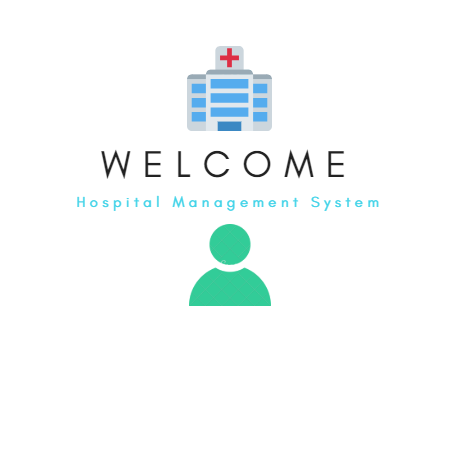
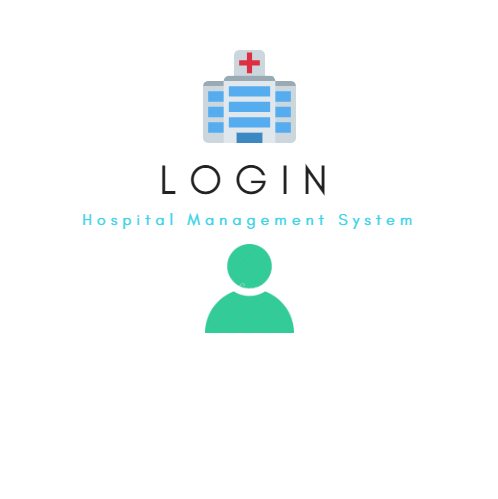
fixes

diff --git a/src/Registration.java b/src/Registration.java
@@ -175,13 +175,10 @@ private void Reset()
                 .addGroup(jPanel1Layout.createParallelGroup(javax.swing.GroupLayout.Alignment.BASELINE)
                     .addComponent(jLabel4)
                     .addComponent(txtAdd, javax.swing.GroupLayout.PREFERRED_SIZE, javax.swing.GroupLayout.DEFAULT_SIZE, javax.swing.GroupLayout.PREFERRED_SIZE))
-                .addGroup(jPanel1Layout.createParallelGroup(javax.swing.GroupLayout.Alignment.LEADING)
-                    .addGroup(jPanel1Layout.createSequentialGroup()
-                        .addGap(11, 11, 11)
-                        .addComponent(jLabel5))
-                    .addGroup(jPanel1Layout.createSequentialGroup()
-                        .addGap(18, 18, 18)
-                        .addComponent(txtContact, javax.swing.GroupLayout.PREFERRED_SIZE, javax.swing.GroupLayout.DEFAULT_SIZE, javax.swing.GroupLayout.PREFERRED_SIZE)))
+                .addGap(18, 18, 18)
+                .addGroup(jPanel1Layout.createParallelGroup(javax.swing.GroupLayout.Alignment.BASELINE)
+                    .addComponent(txtContact, javax.swing.GroupLayout.PREFERRED_SIZE, javax.swing.GroupLayout.DEFAULT_SIZE, javax.swing.GroupLayout.PREFERRED_SIZE)
+                    .addComponent(jLabel5))
                 .addGap(18, 18, 18)
                 .addGroup(jPanel1Layout.createParallelGroup(javax.swing.GroupLayout.Alignment.TRAILING)
                     .addComponent(jLabel6)

diff --git a/src/Loginframe.java b/src/Loginframe.java
@@ -89,13 +89,13 @@ Connection con=null;
 
         empty.setIcon(new javax.swing.ImageIcon(getClass().getResource("/login.png"))); // NOI18N
         jPanel1.add(empty);
-        empty.setBounds(0, 0, 460, 460);
+        empty.setBounds(-30, 0, 460, 460);
 
         javax.swing.GroupLayout layout = new javax.swing.GroupLayout(getContentPane());
         getContentPane().setLayout(layout);
         layout.setHorizontalGroup(
             layout.createParallelGroup(javax.swing.GroupLayout.Alignment.LEADING)
-            .addComponent(jPanel1, javax.swing.GroupLayout.DEFAULT_SIZE, 456, Short.MAX_VALUE)
+            .addComponent(jPanel1, javax.swing.GroupLayout.PREFERRED_SIZE, 430, javax.swing.GroupLayout.PREFERRED_SIZE)
         );
         layout.setVerticalGroup(
             layout.createParallelGroup(javax.swing.GroupLayout.Alignment.LEADING)
@@ -131,7 +131,8 @@ Connection con=null;
              frm.setVisible(true);
            }
            else{
-              JOptionPane.showMessageDialog(null, "Login Failed..Id & Password doesnot matched !");
+              //JOptionPane.showMessageDialog(null, "Login Failed..Id & Password doesnot matched !");
+              JOptionPane.showMessageDialog( this, "Id & Password didn't matched !","Login Failed", JOptionPane.ERROR_MESSAGE);
           }
         }catch(SQLException | HeadlessException e){
          JOptionPane.showMessageDialog(null, e); 

diff --git a/src/Bill_Room.java b/src/Bill_Room.java
@@ -635,7 +635,7 @@ public class Bill_Room extends javax.swing.JFrame {
             }
             if (!(PatientID.getText().equals(jTable1.getModel().getValueAt(row,0).toString()))) {
                 
-    JOptionPane.showMessageDialog( this, "Patient Data Not Matched","Error", JOptionPane.ERROR_MESSAGE);
+    JOptionPane.showMessageDialog( this, "Patient IDs Not Matched","Error", JOptionPane.ERROR_MESSAGE);
                 /*int row= jTable1.getSelectedRow();
             String val =jTable1.getModel().getValueAt(row,2).toString();
             txtServiceCharges.setText(val);*/
